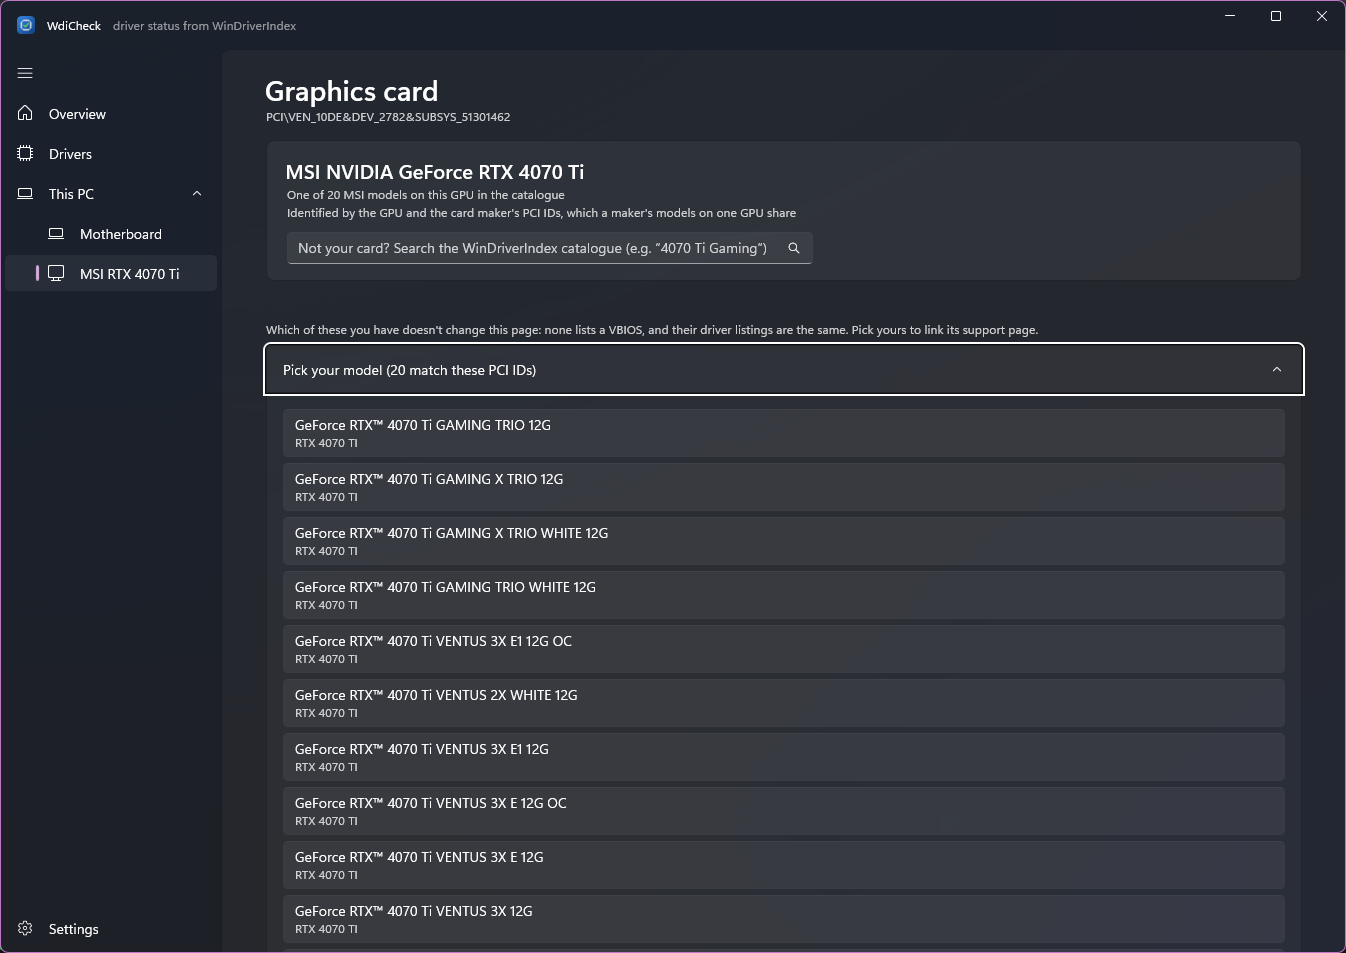
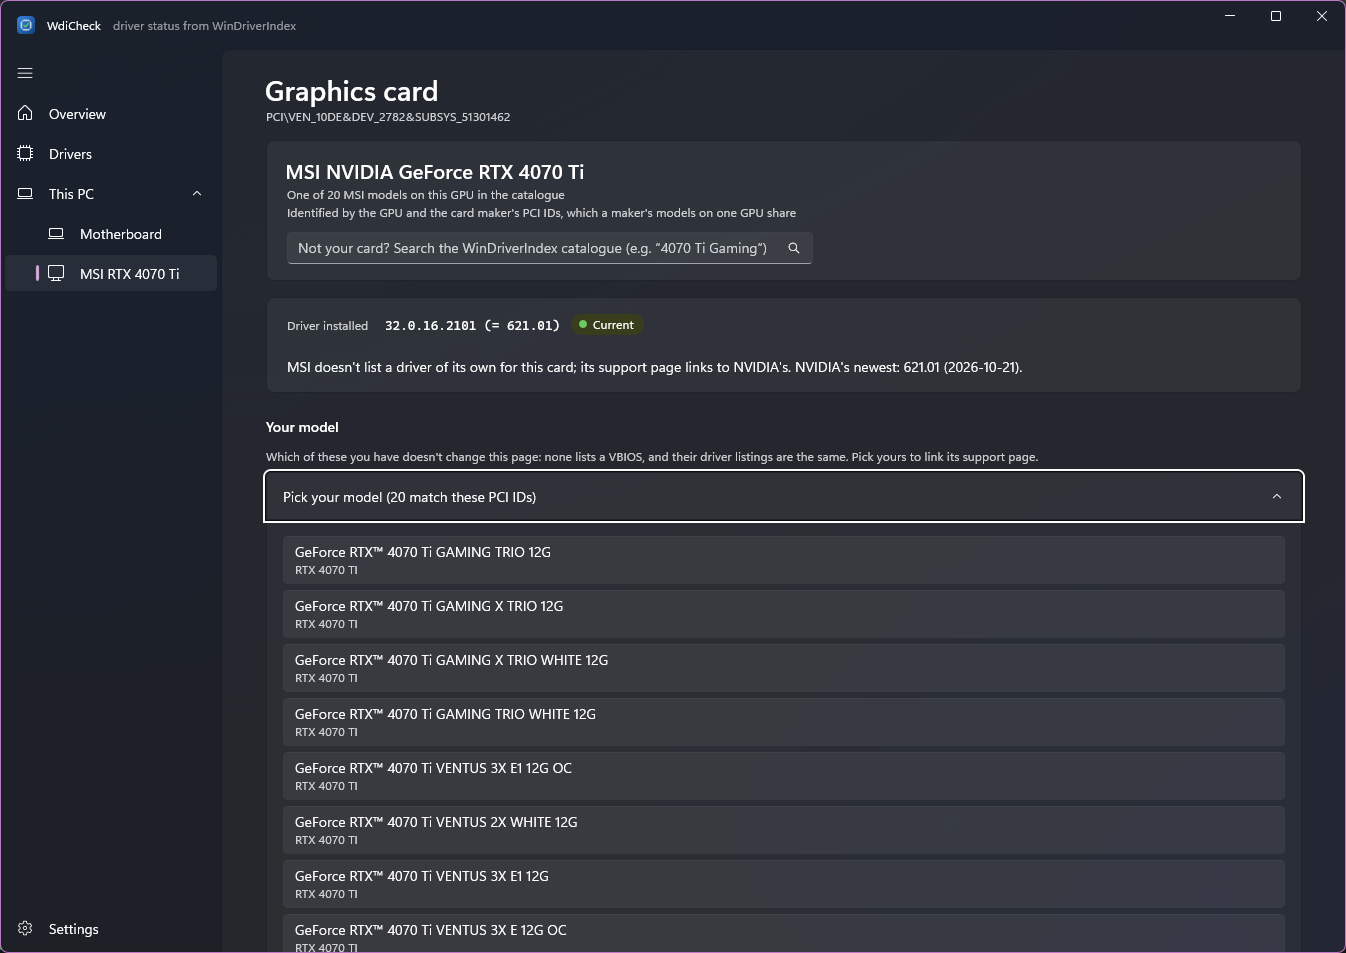
Card page: model picker below the driver status
The model list moves to the bottom under "Your model", so expanding it
pushes nothing down. "Which one is yours?" stays near the top when a
model lists a VBIOS. Closed InfoBars are collapsed, removing the gap
they left in the panel's spacing. Screenshot retaken.

Changed region(s): [[0.1872, 0.3347, 0.9673, 1.0]]

diff --git a/src/WdiCheck.App/Views/CardPage.xaml b/src/WdiCheck.App/Views/CardPage.xaml
@@ -67,38 +67,15 @@
                 </Border>
 
                 <InfoBar Severity="Warning" IsClosable="False" Title="Couldn't load every listing for this card"
-                         IsOpen="{x:Bind Card.HasError, FallbackValue=False}"
+                         IsOpen="{x:Bind Card.HasError, FallbackValue=False}" Visibility="{x:Bind vm:Display.Show(Card.HasError), FallbackValue=Collapsed}"
                          Message="{x:Bind Card.Error, FallbackValue=''}" />
 
-                <!-- Which model: asked for only when it would change the page (a model lists a VBIOS). -->
-                <StackPanel Spacing="8" Visibility="{x:Bind vm:Display.Show(Card.HasCandidates), FallbackValue=Collapsed}">
-                    <InfoBar Severity="Informational" IsOpen="{x:Bind Card.ModelMatters, FallbackValue=False}" IsClosable="False"
-                             Title="Which one is yours?"
-                             Message="The PCI IDs Windows reports are shared by these models, and some of them list a VBIOS. Pick yours, or search above." />
-                    <TextBlock Text="{x:Bind Card.ModelNote, FallbackValue=''}" Style="{StaticResource MutedTextStyle}" TextWrapping="Wrap"
-                               Visibility="{x:Bind vm:Display.Show(Card.HasModelNote), FallbackValue=Collapsed}" />
-                    <Expander Header="{x:Bind Card.CandidatesHeader, FallbackValue=''}"
-                              IsExpanded="{x:Bind Card.ModelMatters, FallbackValue=False}"
-                              HorizontalAlignment="Stretch" HorizontalContentAlignment="Stretch">
-                        <ItemsRepeater ItemsSource="{x:Bind Card.Candidates, FallbackValue={x:Null}}">
-                            <ItemsRepeater.Layout>
-                                <StackLayout Spacing="6" />
-                            </ItemsRepeater.Layout>
-                            <ItemsRepeater.ItemTemplate>
-                                <DataTemplate x:DataType="api:Board">
-                                    <Button HorizontalAlignment="Stretch" HorizontalContentAlignment="Left" Tag="{x:Bind}" Click="Candidate_Click"
-                                            ToolTipService.ToolTip="This is my card">
-
-                                        <StackPanel>
-                                            <TextBlock Text="{x:Bind Name}" />
-                                            <TextBlock Text="{x:Bind Chipset}" Style="{StaticResource MutedTextStyle}" />
-                                        </StackPanel>
-                                    </Button>
-                                </DataTemplate>
-                            </ItemsRepeater.ItemTemplate>
-                        </ItemsRepeater>
-                    </Expander>
-                </StackPanel>
+                <!-- Asked for only when it would change the page (a model lists a VBIOS); the list is at the bottom. A closed InfoBar
+                     still takes the panel's spacing, so these are collapsed too. -->
+                <InfoBar Severity="Informational" IsOpen="{x:Bind Card.ModelMatters, FallbackValue=False}" IsClosable="False"
+                         Visibility="{x:Bind vm:Display.Show(Card.ModelMatters), FallbackValue=Collapsed}"
+                         Title="Which one is yours?"
+                         Message="The PCI IDs Windows reports are shared by several models, and some of them list a VBIOS. Pick yours below, or search above." />
 
                 <!-- Driver + VBIOS -->
                 <Border Style="{StaticResource CardStyle}">
@@ -140,6 +117,33 @@
                     <TextBlock Style="{StaticResource MutedTextStyle}" TextWrapping="Wrap"
                                Text="Read each row left to right: the driver installed here, against what the card maker's support page offers; then the maker's version, against the newest release anywhere. Where the possible models list different versions, both ends are shown." />
                     <views:ListingTable ItemsSource="{x:Bind Card.Families, FallbackValue={x:Null}}" Vendor="{x:Bind Card.Vendor, FallbackValue=''}" />
+                </StackPanel>
+
+                <!-- Which model, last: expanding the list then pushes nothing else down. -->
+                <StackPanel Spacing="8" Visibility="{x:Bind vm:Display.Show(Card.HasCandidates), FallbackValue=Collapsed}">
+                    <TextBlock Text="Your model" Style="{StaticResource SectionHeaderStyle}" />
+                    <TextBlock Text="{x:Bind Card.ModelNote, FallbackValue=''}" Style="{StaticResource MutedTextStyle}" TextWrapping="Wrap"
+                               Visibility="{x:Bind vm:Display.Show(Card.HasModelNote), FallbackValue=Collapsed}" />
+                    <Expander Header="{x:Bind Card.CandidatesHeader, FallbackValue=''}"
+                              IsExpanded="{x:Bind Card.ModelMatters, FallbackValue=False}"
+                              HorizontalAlignment="Stretch" HorizontalContentAlignment="Stretch">
+                        <ItemsRepeater ItemsSource="{x:Bind Card.Candidates, FallbackValue={x:Null}}">
+                            <ItemsRepeater.Layout>
+                                <StackLayout Spacing="6" />
+                            </ItemsRepeater.Layout>
+                            <ItemsRepeater.ItemTemplate>
+                                <DataTemplate x:DataType="api:Board">
+                                    <Button HorizontalAlignment="Stretch" HorizontalContentAlignment="Left" Tag="{x:Bind}" Click="Candidate_Click"
+                                            ToolTipService.ToolTip="This is my card">
+                                        <StackPanel>
+                                            <TextBlock Text="{x:Bind Name}" />
+                                            <TextBlock Text="{x:Bind Chipset}" Style="{StaticResource MutedTextStyle}" />
+                                        </StackPanel>
+                                    </Button>
+                                </DataTemplate>
+                            </ItemsRepeater.ItemTemplate>
+                        </ItemsRepeater>
+                    </Expander>
                 </StackPanel>
             </StackPanel>
         </StackPanel>
